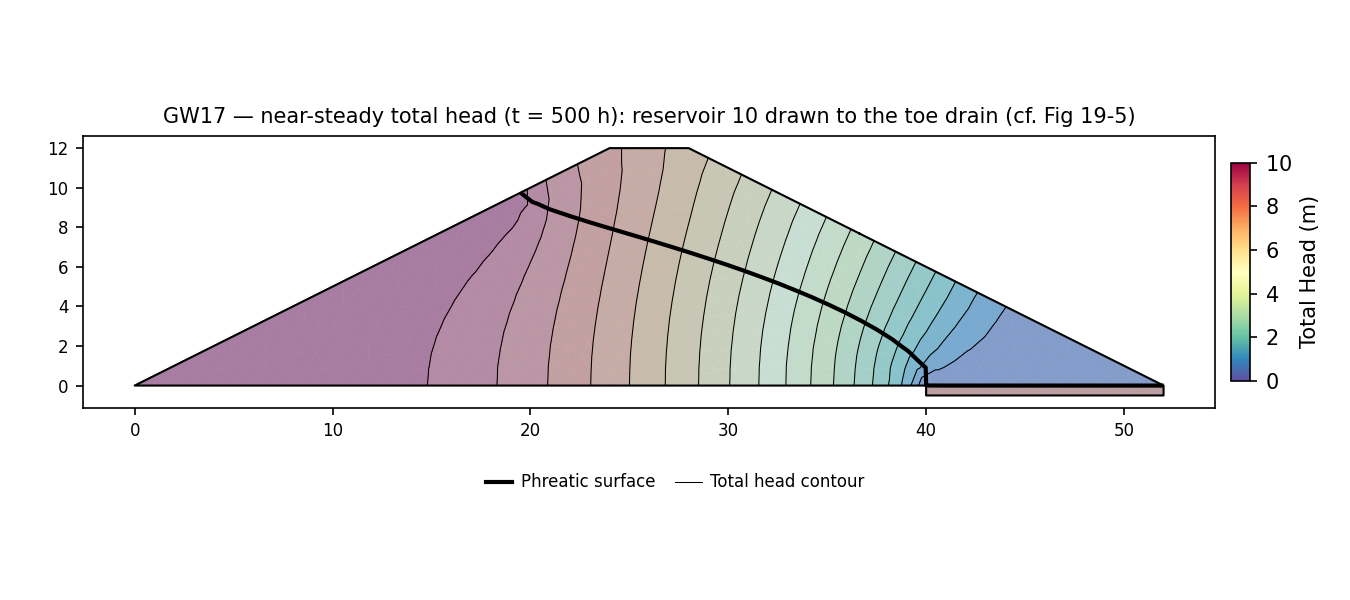
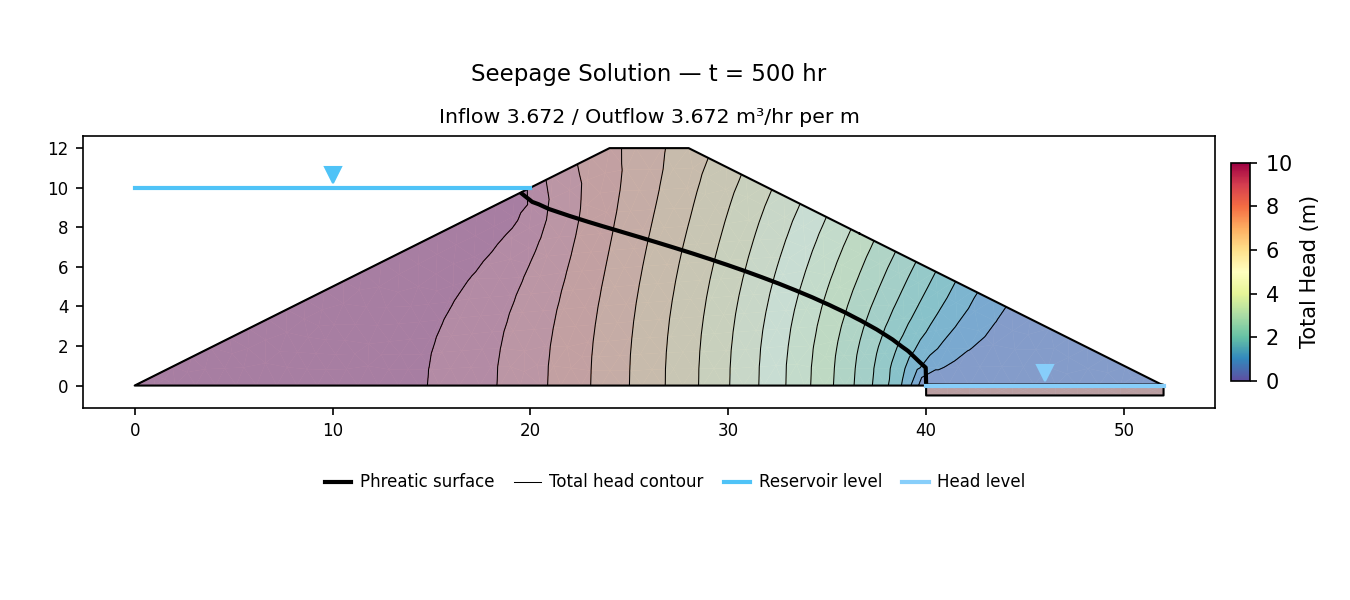
figs(tseep): retouch GW17 transient field render to final display conventions
The one field render in the transient verification corpus (gw017.png, the
toe-drain dam near-steady total head at 500 h). All other transient figures
are line plots (isochrones, boundary profiles, FS-/head-vs-time) and are left
untouched.

- Automatic two-line title rides ("Seepage Solution — t = 500 hr" + per-frame
  inflow/outflow); dropped the manual descriptive set_title override. Threads
  the frame 'time' through so the title carries the frame time.
- show_bc_levels=True: the series-driven reservoir level (el 10 at t=500) and
  the toe-drain specified-head level (el 0) drawn with the shared apex-down
  water symbol.
- flowlines=False kept explicit (a transient storage-release frame has no flow
  net); single frame keeps the auto colour scale.
- Size/framing unchanged. phi-clean (phi=None, flowlines off).

Gate: run_tests.py --tseep 42/42, every row delta 0.000 (gw017 included).

Claude-Session: https://claude.ai/code/session_0147GB4LGVZuqGHCRMVzZTsR

diff --git a/benchmarks/rocscience/make_gw_transient_figures.py b/benchmarks/rocscience/make_gw_transient_figures.py
@@ -221,7 +221,13 @@ def fig_gw17():
     """XSLOPE near-steady total-head field (500 h) for the toe-drain dam, rendered
     through the package's own plot_seep_solution — the visual analog of the
     published Fig 19-5 total-head contours (reservoir 10 drawn down to the toe drain
-    at head 0)."""
+    at head 0).
+
+    The single field render in this transient panel, drawn with the final display
+    conventions: the automatic two-line "Seepage Solution — t = 500 hr" title rides
+    (no manual override), the series-driven reservoir / toe-drain BC water levels are
+    shown for the frame (show_bc_levels), and no flow lines are drawn (a transient
+    storage-release frame has no flow net). Single frame → auto colour scale."""
     from xslope.plot_seep import plot_seep_solution
     sd = load_slope_data(os.path.join(SRC, 'gw017.xlsx'))
     ts = build_tseep_data(sd)
@@ -231,6 +237,8 @@ def fig_gw17():
         sol = run_transient_seepage(seep, ts, verbose=False, max_head_change_frac=0.25)
     fr = sol['frames'][transient_frame_index(sol, 500.0)]
     frame_solution = {
+        # 'time' rides so the title reads "Seepage Solution — t = 500 hr" (auto).
+        'time': fr['time'],
         'head': np.asarray(fr['head']), 'u': np.asarray(fr['u']),
         # No stream function is stored for a transient frame (no flow net); this
         # figure draws flowlines=False anyway.
@@ -242,9 +250,7 @@ def fig_gw17():
     with contextlib.redirect_stdout(io.StringIO()):
         plot_seep_solution(seep, frame_solution, fig=fig, show_title=True,
                            fill_contours=True, phreatic=True, flowlines=False,
-                           mesh=False)
-    fig.axes[0].set_title('GW17 — near-steady total head (t = 500 h): reservoir 10 '
-                          'drawn to the toe drain (cf. Fig 19-5)', fontsize=10)
+                           show_bc_levels=True, mesh=False)
     fig.savefig(os.path.join(OUT, 'gw017.png'), dpi=150)
     plt.close(fig)
     return 'gw017.png'
